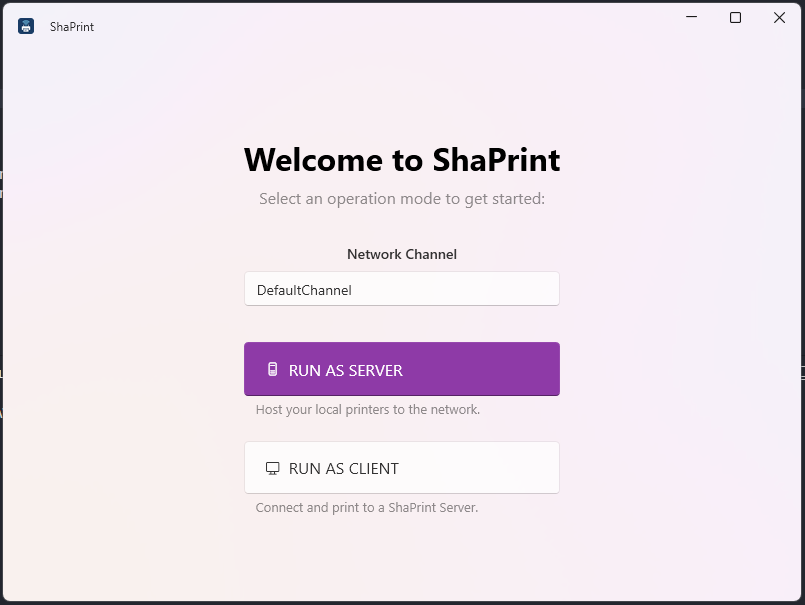
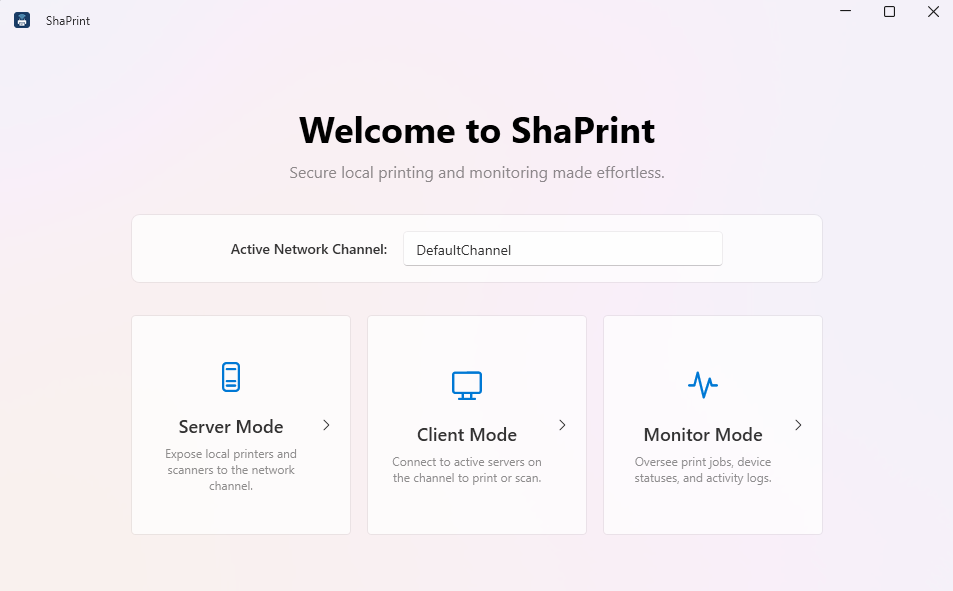
docs: update README with Server Monitoring feature details and screenshot

diff --git a/README.md b/README.md
@@ -20,6 +20,7 @@ By utilizing a **Virtual Printer Port (Named Pipes)** architecture and direct TC
 - ⚡ **Seamless Auto-Updater:** ShaPrint includes a built-in background updater. It checks for new releases on GitHub and updates itself seamlessly without interrupting active print jobs.
 - 👻 **Stealth Background Service:** Minimize the app to the System Tray to handle print jobs silently. ShaPrint integrates directly with the **Windows Task Scheduler** to automatically start at boot with the highest privileges, entirely bypassing annoying UAC prompts.
 - 🔔 **Real-Time Notifications:** Receive native Windows Toast notifications for print job completions, printer errors, client connections/disconnections, and scan results. Works reliably even when the application is minimized to the system tray or running as a background startup service. Clicking a toast instantly restores the application window.
+- 📊 **Server Monitoring Mode:** Consolidated dashboard to monitor all active servers on the local network. View real-time server information, network channel, software version, uptime, exposed printer queues, scanner availability, active client connections, recent job histories, and printer/scanner error notifications.
 ---
 
 ## 📸 Screenshots
@@ -27,11 +28,12 @@ By utilizing a **Virtual Printer Port (Named Pipes)** architecture and direct TC
 <div align="center">
 <table>
   <tr>
-    <td align="center" colspan="4"><b>Switch Mode</b><br><img src="img/1.png" width="400"></td>
+    <td align="center" colspan="5"><b>Switch Mode</b><br><img src="img/1.png" width="400"></td>
   </tr>
   <tr>
     <td align="center"><b>Server Mode</b><br><img src="img/2.png" width="220"></td>
     <td align="center"><b>Client Mode</b><br><img src="img/3.png" width="220"></td>
+    <td align="center"><b>Monitoring</b><br><img src="img/6.png" width="220"></td>
     <td align="center"><b>Settings</b><br><img src="img/4.png" width="220"></td>
     <td align="center"><b>Update Manager</b><br><img src="img/5.png" width="220"></td>
   </tr>
@@ -45,6 +47,9 @@ By utilizing a **Virtual Printer Port (Named Pipes)** architecture and direct TC
    
 2. **Client Mode**
    The application intercepts print jobs by creating a *Virtual Printer Port* within the Windows Spooler. Any document printed from standard applications (Word, Chrome, Acrobat) to this virtual printer is instantly intercepted and streamed directly to the Server.
+
+3. **Monitoring Mode**
+   Operators or users can monitor all active ShaPrint servers across the network channel. It discovers active servers via UDP and queries their status on **TCP Port 9878** to retrieve real-time encrypted details.
 
 ---
 
@@ -79,6 +84,12 @@ ShaPrint is packaged as a fully self-contained Standalone Setup. You do **not** 
    **Manual Discovery:** Enter the Server's IP address into the "Specific Server IP" box and click Scan if you are on a different VLAN.
 5. Select your target printer from the list and click **Install Selected Printer**.
 6. Open any application, press `Ctrl + P`, select `ShaPrint - [Printer Name]`, and **Print!**
+
+### 3. Monitoring Server Status
+1. Open ShaPrint.
+2. Select the **Monitor** tab from the sidebar.
+3. The dashboard will automatically scan and list all active servers on your network channel, displaying their status, connected clients, recent jobs, and active printer/scanner status.
+4. You can filter servers by hostname/IP, filter by online/offline/warning status, or click "Refresh" to trigger a manual sweep.
 
 ---
 